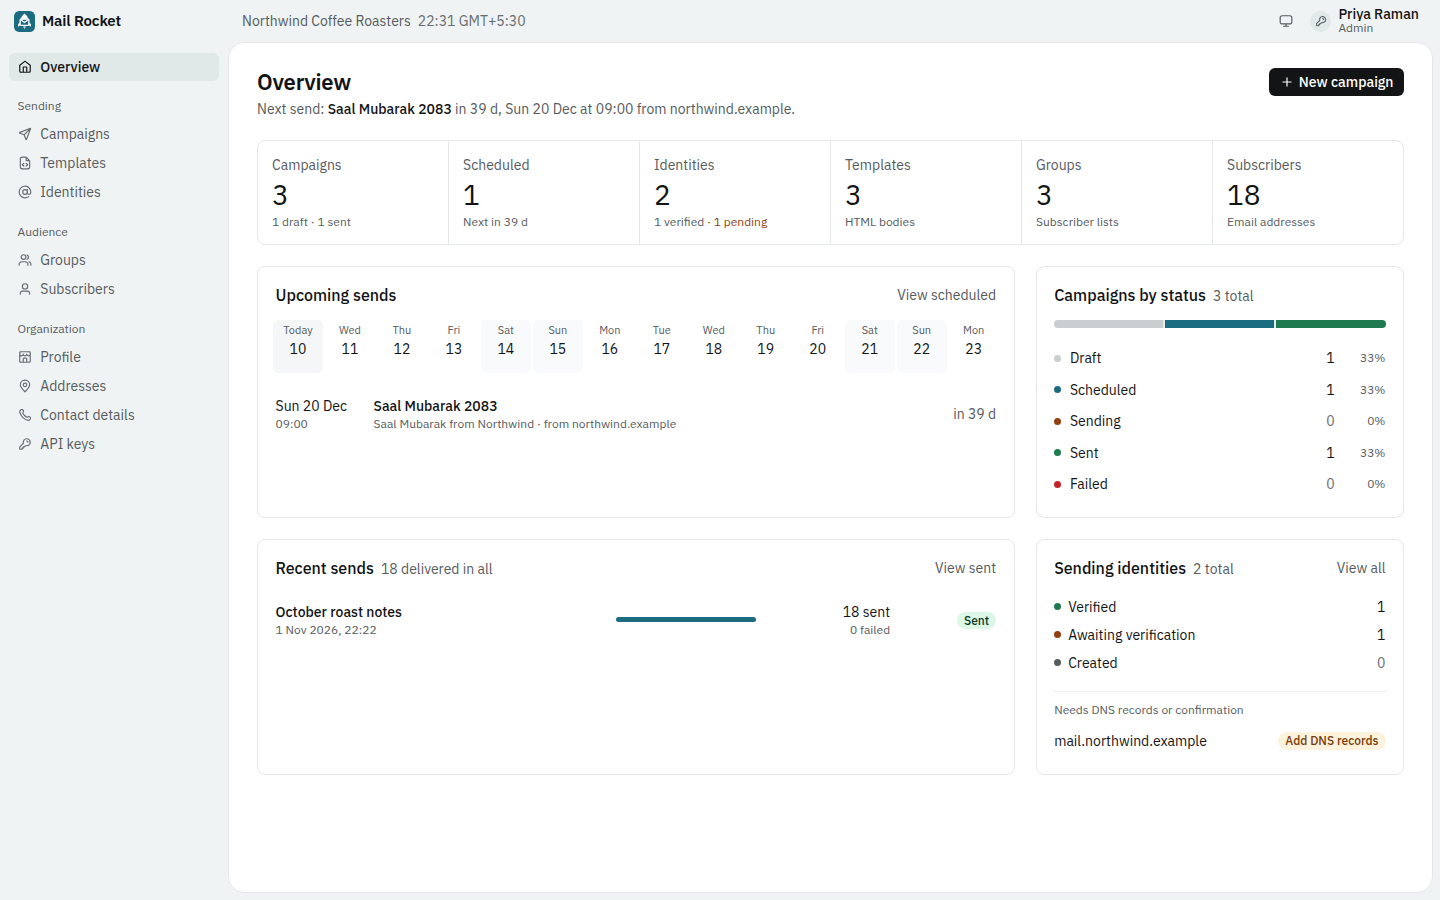
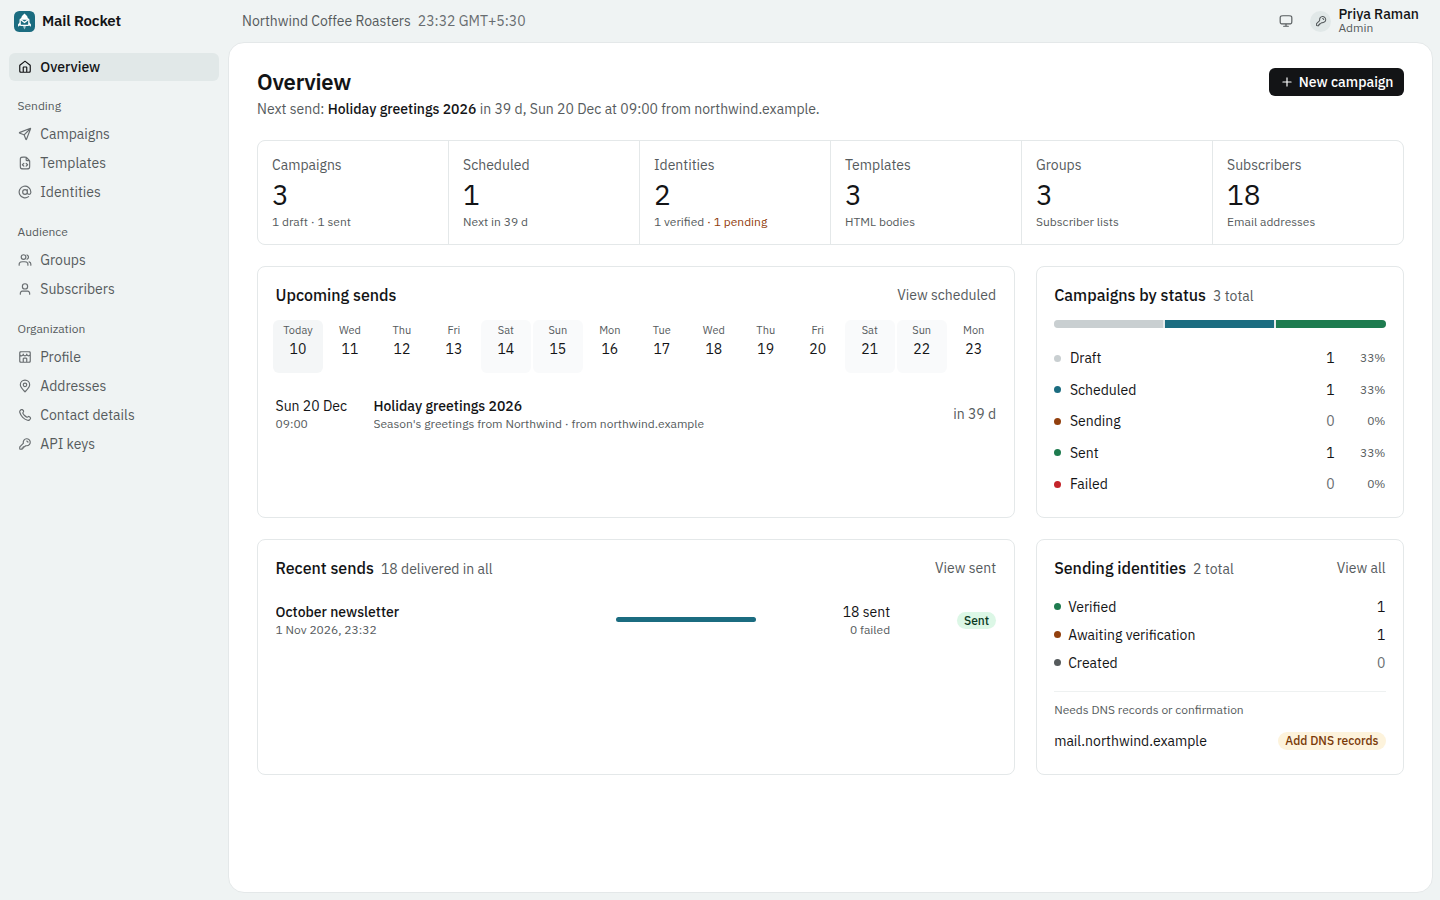
docs: generic sample content in screenshots, comments and tests
The docs screenshots are retaken from a fresh throwaway instance seeded
with generic templates and campaigns (Holiday greetings with Christmas
and New Year, a monthly newsletter, a welcome email) instead of a
region-specific greeting.

Code comments on the UTF-8 charset now speak of non-Latin scripts,
accents and emoji in general, and the delete-guard tests name their
campaign "Holiday greetings".

Changed region(s): [[0.25, 0.4356, 0.5, 0.4978], [0.2188, 0.0933, 0.5625, 0.1244], [0.2188, 0.6533, 0.2812, 0.6844]]

diff --git a/apps/api/tests/services/LibraryDeleteGuards.test.ts b/apps/api/tests/services/LibraryDeleteGuards.test.ts
@@ -22,9 +22,9 @@ describe("library delete guards", () => {
     });
 
     it("refuses to delete a group a scheduled or sending campaign sends to, naming the campaign", async () => {
-        mockDb.select.mockImplementationOnce(() => chain([{ name: "Diwali send" }]));
+        mockDb.select.mockImplementationOnce(() => chain([{ name: "Holiday greetings" }]));
 
-        await expect(new GroupService().delete("group-1")).rejects.toThrow(`"Diwali send" is scheduled or sending to this group`);
+        await expect(new GroupService().delete("group-1")).rejects.toThrow(`"Holiday greetings" is scheduled or sending to this group`);
         expect(mockDb.delete).not.toHaveBeenCalled();
     });
 
@@ -36,7 +36,7 @@ describe("library delete guards", () => {
     });
 
     it("refuses to delete a template a scheduled or sending campaign uses", async () => {
-        mockDb.select.mockImplementationOnce(() => chain([{ name: "Diwali send" }]));
+        mockDb.select.mockImplementationOnce(() => chain([{ name: "Holiday greetings" }]));
 
         await expect(new TemplateService().delete("template-1")).rejects.toThrow(ValidationError);
         expect(mockDb.delete).not.toHaveBeenCalled();

diff --git a/apps/api/tests/services/SendCampaignService.test.ts b/apps/api/tests/services/SendCampaignService.test.ts
@@ -196,7 +196,7 @@ describe("SendCampaignService", () => {
             const command = (mockSesSend.mock.calls[0] as any)[0];
             expect(command.input.Content.Simple.Subject.Data).toBe("Hi Ada");
             expect(command.input.Content.Simple.Body.Html.Data).toBe("<p>Hello Ada from Acme Inc</p>");
-            // Declared UTF-8, so non-ASCII text (Gujarati, emoji) isn't garbled by SES's 7-bit ASCII default.
+            // Declared UTF-8, so non-ASCII text (other scripts, accents, emoji) isn't garbled by SES's 7-bit ASCII default.
             expect(command.input.Content.Simple.Subject.Charset).toBe("UTF-8");
             expect(command.input.Content.Simple.Body.Html.Charset).toBe("UTF-8");
             expect(command.input.Content.Simple.Headers).toBeUndefined();

diff --git a/apps/api/src/services/SendCampaignService.ts b/apps/api/src/services/SendCampaignService.ts
@@ -257,7 +257,7 @@ export class SendCampaignService {
                     Content: {
                         Simple: {
                             // UTF-8 on both, or SES assumes 7-bit ASCII and garbles
-                            // anything else: Gujarati or Hindi text, accents, emoji, curly quotes.
+                            // anything else: non-Latin scripts, accented letters, emoji, curly quotes.
                             Subject: { Data: subject.rendered, Charset: "UTF-8" },
                             Body: { Html: { Data: html, Charset: "UTF-8" } },
                             // RFC 8058 one-click unsubscribe: mail clients show their own
